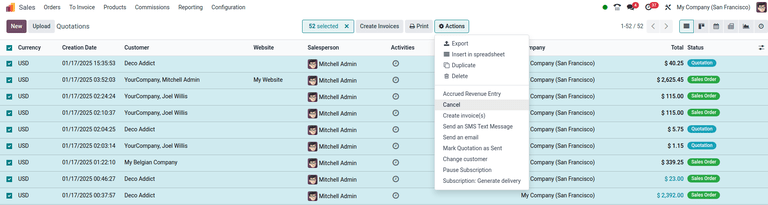
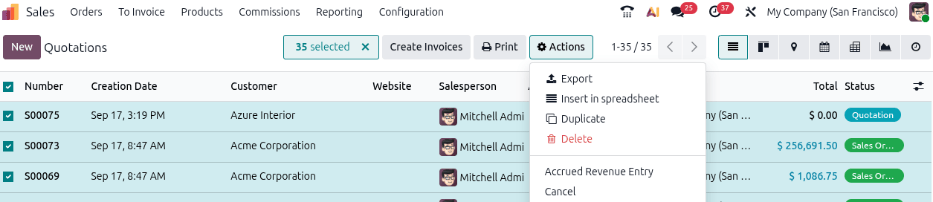
[FIX] sales: removed optional products from quotation templates
X-original-commit: f827d1229cc09aecf2dc3e79f51cc9a65eb5ea77

diff --git a/content/applications/sales/sales/sales_quotations/quote_template.rst b/content/applications/sales/sales/sales_quotations/quote_template.rst
@@ -1,3 +1,8 @@
+.. meta::
+   :description: This page describes creating and configuring reusable quotation templates in Odoo
+                 **Sales**, applying a template when generating a new quotation, and mass cancelling
+                 quotations or sales orders.
+
 ===================
 Quotation templates
 ===================
@@ -96,6 +101,9 @@ Both options, :guilabel:`Online Signature` and :guilabel:`Online Payment` can be
 simultaneously, in which case the customer must provide **both** a signature **and** a payment to
 confirm an order.
 
+.. seealso::
+   - :doc:`pdf_quote_builder`
+
 Lines tab
 ---------
 
@@ -134,46 +142,20 @@ secure the section name.
 Then, drag and drop the section name to the desired position, via the :icon:`oi-apps`
 :guilabel:`(six squares)` icon, located to the left of each line item.
 
+.. note::
+   Users can :ref:`create an optional product section
+   <sales/optional_products/optional-product-sections-in-quotations>` in a quotation template and in
+   the quotation form.
+
 To add a note, which appears as a piece of text for the customer on the quotation, click
 :guilabel:`Add a note` in the :guilabel:`Lines` tab. When clicked, a blank field appears, in which
 the desired note can be typed. When the note has been entered, click away to secure the note.
 
-Then, drag and drop the note to the desired position, via the :icon:`oi-apps`
-:guilabel:`(six squares)` icon.
+Then, drag and drop the note to the desired position, via the :icon:`oi-apps` :guilabel:`(six
+squares)` icon.
 
 To delete any line item from the :guilabel:`Lines` tab (product, section, and/or note), click the
 :icon:`fa-trash` :guilabel:`(remove record)` icon on the far-right side of the line.
-
-Optional Products tab
----------------------
-
-Using *optional products* is a marketing strategy that involves the cross-selling of products along
-with a core product. The aim is to offer useful and related products to customers, which may result
-in an increased sale.
-
-.. example::
-   If a customer wants to buy a car, they have the choice to order massaging seats as
-   an additional product that compliments the car, or ignore the offer and buy the car alone.
-
-Optional products appear as a section on the bottom of sales orders and eCommerce pages. Customers
-can immediately add them to their online sales orders themselves, if desired.
-
-.. image:: quote_template/optional-products-on-sales-order.png
-   :alt: Optional products appearing on a typical sales order with Odoo Sales.
-
-In the :guilabel:`Optional Products` tab, :guilabel:`Add a line` for each cross-selling product
-related to the original items in the :guilabel:`Lines` tab, if applicable.
-
-Clicking :guilabel:`Add a line` reveals a blank field in the :guilabel:`Product` column.
-
-When clicked, a drop-down menu with products from the database appear. Select the desired product
-from the drop-down menu to add it as an optional product to the quotation template.
-
-To delete any line item from the :guilabel:`Optional Products` tab, click the :icon:`fa-trash`
-:guilabel:`(remove record)` icon.
-
-.. note::
-   Optional products are **not** required to create a quotation template.
 
 Terms & Conditions tab
 ----------------------
@@ -227,7 +209,7 @@ Then, with the desired quotations (or sales orders) selected from the list view 
 :guilabel:`Quotations` page, click the :icon:`fa-cog` :guilabel:`Actions` button to reveal a
 drop-down menu.
 
-From this drop-down menu, select :guilabel:`Cancel quotations`.
+From this drop-down menu, select :guilabel:`Cancel`.
 
 .. image:: quote_template/cancel-quotations.png
    :alt: The Cancel quotations option on the Actions drop-down menu in the Odoo Sales application.
@@ -236,9 +218,8 @@ From this drop-down menu, select :guilabel:`Cancel quotations`.
    This action can be performed for quotations in *any* stage, even if it is confirmed as a sales
    order.
 
-Upon selecting the :guilabel:`Cancel quotations` option, a :guilabel:`Cancel quotations`
-confirmation pop-up window appears. To complete the cancellation, click the :guilabel:`Cancel
-quotations` button.
+Upon selecting the :guilabel:`Cancel` option, a :guilabel:`Cancel` confirmation pop-up window
+appears. To complete the cancellation, click the :guilabel:`Cancel` button.
 
 .. note::
    An error pop-up message appears when attempting to cancel an order for an ongoing subscription

diff --git a/content/applications/sales/sales/sales_quotations/optional_products.rst b/content/applications/sales/sales/sales_quotations/optional_products.rst
@@ -51,6 +51,8 @@ optional products at once when using this form by clicking their checkboxes and 
 .. image:: optional_products/search-optional-products-form.png
    :alt: The Search: Optional Products form accessed by clicking Search more...
 
+.. _sales/optional_products/optional-product-sections-in-quotations:
+
 Setting optional product sections in quotations
 ===============================================
 
